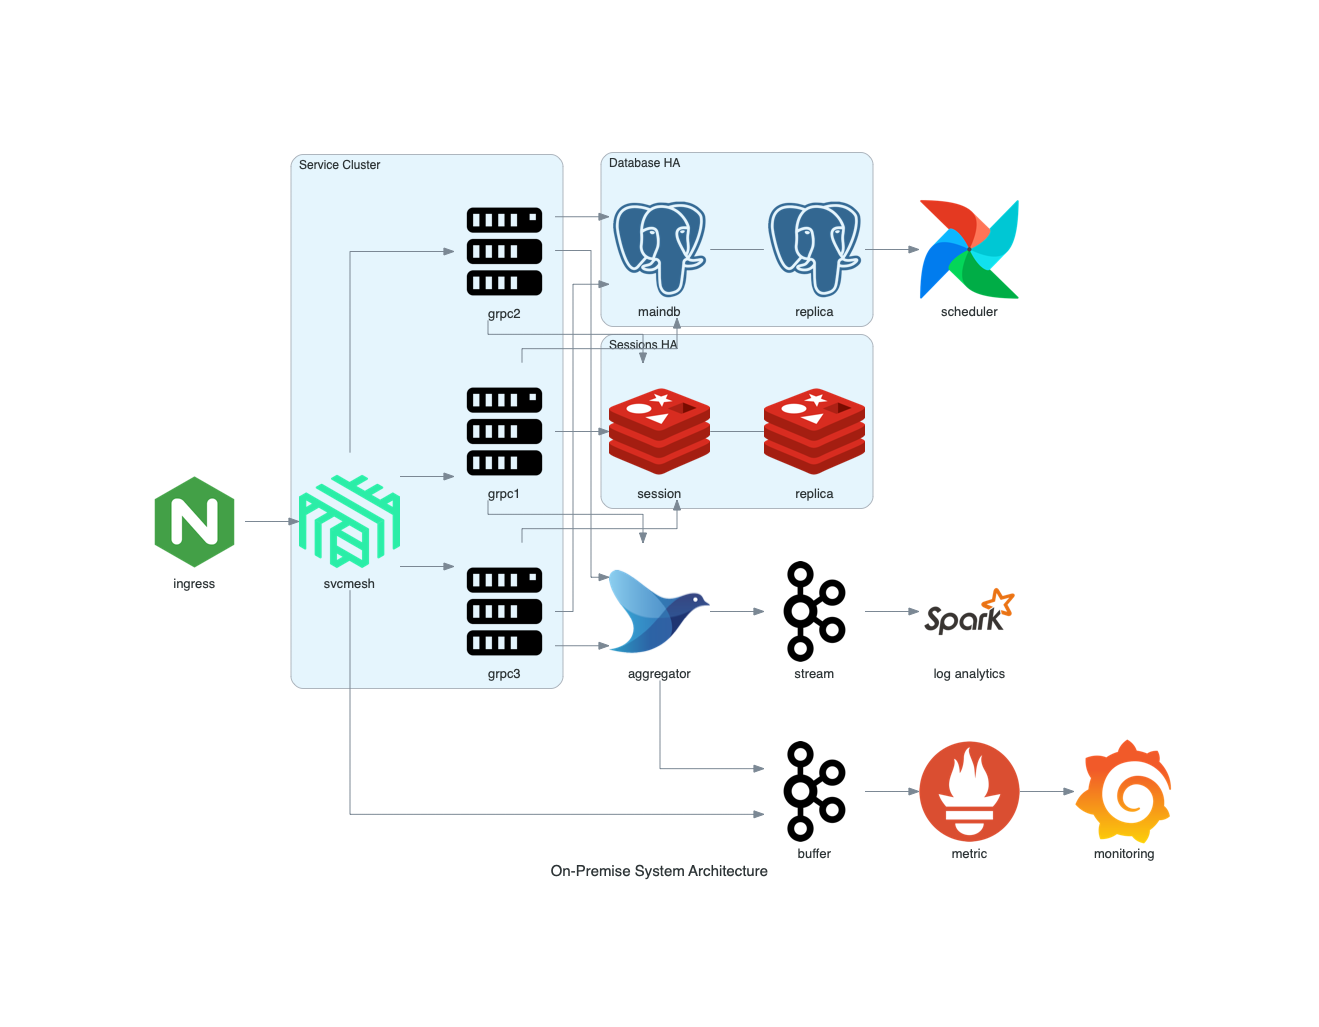
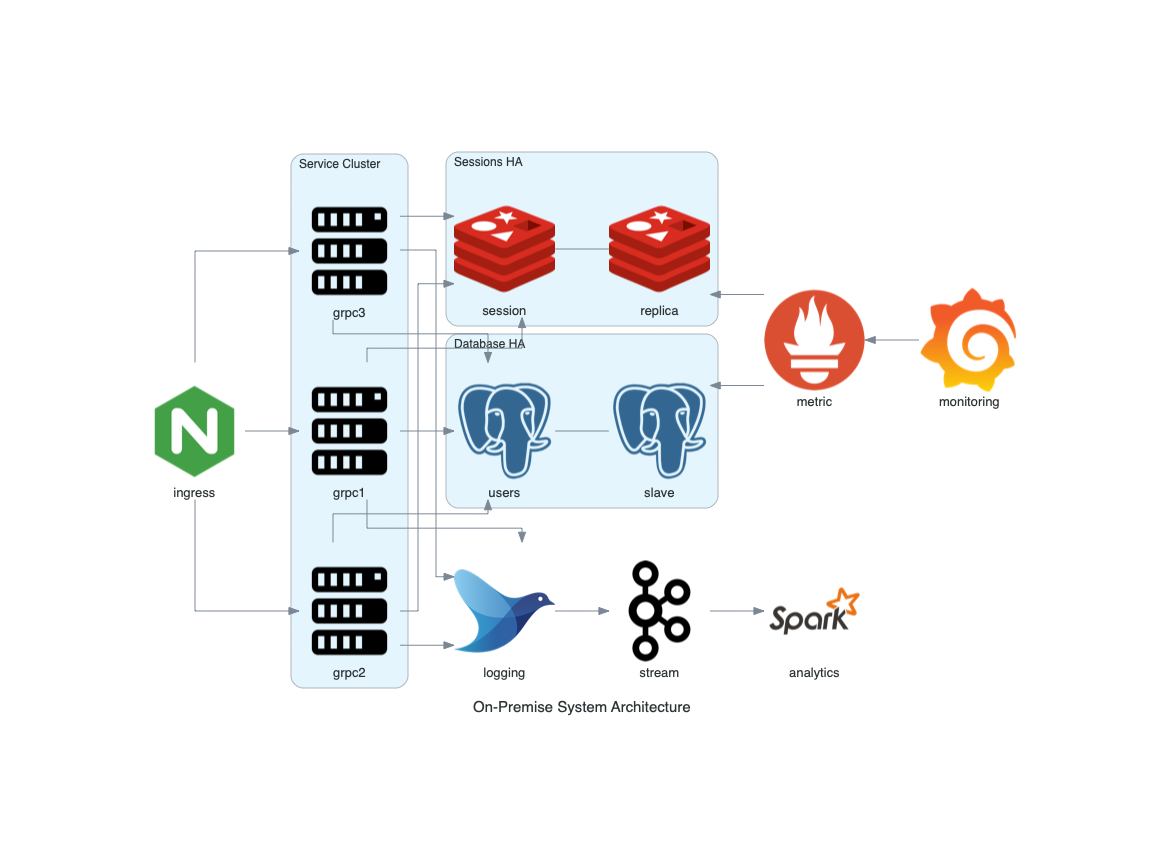
Deploy website
Deploy website version based on f23d9879ca727b5603332e0376e48bddc5ea1545

Changed region(s): [[0.0928, 0.1205, 0.8969, 0.8737], [0.8041, 0.7231, 0.8969, 0.8436]]

diff --git a/docs/getting-started/examples.html b/docs/getting-started/examples.html
@@ -239,42 +239,35 @@ urlretrieve(rabbitmq_url, rabbitmq_icon)
 <span class="hljs-keyword">from</span> diagrams.onprem.inmemory <span class="hljs-keyword">import</span> Redis
 <span class="hljs-keyword">from</span> diagrams.onprem.logging <span class="hljs-keyword">import</span> Fluentd
 <span class="hljs-keyword">from</span> diagrams.onprem.monitoring <span class="hljs-keyword">import</span> Grafana, Prometheus
-<span class="hljs-keyword">from</span> diagrams.onprem.network <span class="hljs-keyword">import</span> Linkerd, Nginx
+<span class="hljs-keyword">from</span> diagrams.onprem.network <span class="hljs-keyword">import</span> Nginx
 <span class="hljs-keyword">from</span> diagrams.onprem.queue <span class="hljs-keyword">import</span> Kafka
-<span class="hljs-keyword">from</span> diagrams.onprem.workflow <span class="hljs-keyword">import</span> Airflow
 
 <span class="hljs-keyword">with</span> Diagram(<span class="hljs-string">"On-Premise System Architecture"</span>, show=<span class="hljs-literal">False</span>):
     ingress = Nginx(<span class="hljs-string">"ingress"</span>)
 
+    metrics = Prometheus(<span class="hljs-string">"metric"</span>)
+    metrics &lt;&lt; Grafana(<span class="hljs-string">"monitoring"</span>)
+
     <span class="hljs-keyword">with</span> Cluster(<span class="hljs-string">"Service Cluster"</span>):
-        svcmesh = Linkerd(<span class="hljs-string">"svcmesh"</span>)
-        grpcsvc = [Server(<span class="hljs-string">"grpc1"</span>), Server(<span class="hljs-string">"grpc2"</span>), Server(<span class="hljs-string">"grpc3"</span>)]
-        svcmesh &gt;&gt; grpcsvc
-
-    <span class="hljs-keyword">with</span> Cluster(<span class="hljs-string">"Database HA"</span>):
-        maindb_master = PostgreSQL(<span class="hljs-string">"maindb"</span>)
-        maindb_replica = PostgreSQL(<span class="hljs-string">"replica"</span>)
-        maindb_master - maindb_replica
-        grpcsvc &gt;&gt; maindb_master
-
-    maindb_replica &gt;&gt; Airflow(<span class="hljs-string">"scheduler"</span>)
+        grpcsvc = [
+            Server(<span class="hljs-string">"grpc1"</span>),
+            Server(<span class="hljs-string">"grpc2"</span>),
+            Server(<span class="hljs-string">"grpc3"</span>)]
 
     <span class="hljs-keyword">with</span> Cluster(<span class="hljs-string">"Sessions HA"</span>):
-        session_master = Redis(<span class="hljs-string">"session"</span>)
-        session_master - Redis(<span class="hljs-string">"replica"</span>)
-        grpcsvc &gt;&gt; session_master
+        master = Redis(<span class="hljs-string">"session"</span>)
+        master - Redis(<span class="hljs-string">"replica"</span>) &lt;&lt; metrics
+        grpcsvc &gt;&gt; master
 
-    logaggr = Fluentd(<span class="hljs-string">"aggregator"</span>)
-    logaggr &gt;&gt; Kafka(<span class="hljs-string">"stream"</span>) &gt;&gt; Spark(<span class="hljs-string">"log analytics"</span>)
-    grpcsvc &gt;&gt; logaggr
+    <span class="hljs-keyword">with</span> Cluster(<span class="hljs-string">"Database HA"</span>):
+        master = PostgreSQL(<span class="hljs-string">"users"</span>)
+        master - PostgreSQL(<span class="hljs-string">"slave"</span>) &lt;&lt; metrics
+        grpcsvc &gt;&gt; master
 
-    metricq = Kafka(<span class="hljs-string">"buffer"</span>)
-    metricq &gt;&gt; Prometheus(<span class="hljs-string">"metric"</span>) &gt;&gt; Grafana(<span class="hljs-string">"monitoring"</span>)
+    aggregator = Fluentd(<span class="hljs-string">"logging"</span>)
+    aggregator &gt;&gt; Kafka(<span class="hljs-string">"stream"</span>) &gt;&gt; Spark(<span class="hljs-string">"analytics"</span>)
 
-    logaggr &gt;&gt; metricq
-    svcmesh &gt;&gt; metricq
-
-    ingress &gt;&gt; svcmesh
+    ingress &gt;&gt; grpcsvc &gt;&gt; aggregator
 </code></pre>
 <p><img src="/img/on-premise_system_architecture.png" alt="on-premise system architecture diagram"></p>
 </span></div></article></div><div class="docLastUpdate"><em>Last updated on 2020-2-23</em></div><div class="docs-prevnext"><a class="docs-prev button" href="/docs/getting-started/installation"><span class="arrow-prev">← </span><span>Installation</span></a><a class="docs-next button" href="/docs/guides/diagram"><span>Diagrams</span><span class="arrow-next"> →</span></a></div></div></div><nav class="onPageNav"><ul class="toc-headings"><li><a href="#grouped-workers">Grouped Workers</a></li><li><a href="#clustered-web-services">Clustered Web Services</a></li><li><a href="#event-processing">Event Processing</a></li><li><a href="#message-collecting-system">Message Collecting System</a></li><li><a href="#exposed-pod-with-3-replicas-on-k8s">Exposed Pod with 3 Replicas on k8s</a></li><li><a href="#stateful-architecture-on-k8s">Stateful Architecture on k8s</a></li><li><a href="#rabbitmq-consumers-with-custom-nodes">RabbitMQ Consumers with custom nodes</a></li><li><a href="#on-premise-system-architecture">On-Premise System Architecture</a></li></ul></nav></div><footer class="nav-footer" id="footer"><section class="sitemap"><a href="/" class="nav-home"><img src="/img/diagrams.ico" alt="Diagrams" width="66" height="58"/></a><div><h5>Docs</h5><a href="/docs/getting-started/installation">Getting Started</a><a href="/docs/guides/diagram">Guides</a><a href="/docs/nodes/aws">Nodes</a></div><div><h5>More</h5><a href="https://github.com/mingrammer/diagrams">GitHub</a><a class="github-button" data-icon="octicon-star" data-count-href="/mingrammer/diagrams/stargazers" data-show-count="true" data-count-aria-label="# stargazers on GitHub" aria-label="Star this project on GitHub">Star</a></div></section><section class="copyright">Copyright © 2020 mingrammer</section></footer></div></body></html>

diff --git a/docs/getting-started/examples/index.html b/docs/getting-started/examples/index.html
@@ -239,42 +239,35 @@ urlretrieve(rabbitmq_url, rabbitmq_icon)
 <span class="hljs-keyword">from</span> diagrams.onprem.inmemory <span class="hljs-keyword">import</span> Redis
 <span class="hljs-keyword">from</span> diagrams.onprem.logging <span class="hljs-keyword">import</span> Fluentd
 <span class="hljs-keyword">from</span> diagrams.onprem.monitoring <span class="hljs-keyword">import</span> Grafana, Prometheus
-<span class="hljs-keyword">from</span> diagrams.onprem.network <span class="hljs-keyword">import</span> Linkerd, Nginx
+<span class="hljs-keyword">from</span> diagrams.onprem.network <span class="hljs-keyword">import</span> Nginx
 <span class="hljs-keyword">from</span> diagrams.onprem.queue <span class="hljs-keyword">import</span> Kafka
-<span class="hljs-keyword">from</span> diagrams.onprem.workflow <span class="hljs-keyword">import</span> Airflow
 
 <span class="hljs-keyword">with</span> Diagram(<span class="hljs-string">"On-Premise System Architecture"</span>, show=<span class="hljs-literal">False</span>):
     ingress = Nginx(<span class="hljs-string">"ingress"</span>)
 
+    metrics = Prometheus(<span class="hljs-string">"metric"</span>)
+    metrics &lt;&lt; Grafana(<span class="hljs-string">"monitoring"</span>)
+
     <span class="hljs-keyword">with</span> Cluster(<span class="hljs-string">"Service Cluster"</span>):
-        svcmesh = Linkerd(<span class="hljs-string">"svcmesh"</span>)
-        grpcsvc = [Server(<span class="hljs-string">"grpc1"</span>), Server(<span class="hljs-string">"grpc2"</span>), Server(<span class="hljs-string">"grpc3"</span>)]
-        svcmesh &gt;&gt; grpcsvc
-
-    <span class="hljs-keyword">with</span> Cluster(<span class="hljs-string">"Database HA"</span>):
-        maindb_master = PostgreSQL(<span class="hljs-string">"maindb"</span>)
-        maindb_replica = PostgreSQL(<span class="hljs-string">"replica"</span>)
-        maindb_master - maindb_replica
-        grpcsvc &gt;&gt; maindb_master
-
-    maindb_replica &gt;&gt; Airflow(<span class="hljs-string">"scheduler"</span>)
+        grpcsvc = [
+            Server(<span class="hljs-string">"grpc1"</span>),
+            Server(<span class="hljs-string">"grpc2"</span>),
+            Server(<span class="hljs-string">"grpc3"</span>)]
 
     <span class="hljs-keyword">with</span> Cluster(<span class="hljs-string">"Sessions HA"</span>):
-        session_master = Redis(<span class="hljs-string">"session"</span>)
-        session_master - Redis(<span class="hljs-string">"replica"</span>)
-        grpcsvc &gt;&gt; session_master
+        master = Redis(<span class="hljs-string">"session"</span>)
+        master - Redis(<span class="hljs-string">"replica"</span>) &lt;&lt; metrics
+        grpcsvc &gt;&gt; master
 
-    logaggr = Fluentd(<span class="hljs-string">"aggregator"</span>)
-    logaggr &gt;&gt; Kafka(<span class="hljs-string">"stream"</span>) &gt;&gt; Spark(<span class="hljs-string">"log analytics"</span>)
-    grpcsvc &gt;&gt; logaggr
+    <span class="hljs-keyword">with</span> Cluster(<span class="hljs-string">"Database HA"</span>):
+        master = PostgreSQL(<span class="hljs-string">"users"</span>)
+        master - PostgreSQL(<span class="hljs-string">"slave"</span>) &lt;&lt; metrics
+        grpcsvc &gt;&gt; master
 
-    metricq = Kafka(<span class="hljs-string">"buffer"</span>)
-    metricq &gt;&gt; Prometheus(<span class="hljs-string">"metric"</span>) &gt;&gt; Grafana(<span class="hljs-string">"monitoring"</span>)
+    aggregator = Fluentd(<span class="hljs-string">"logging"</span>)
+    aggregator &gt;&gt; Kafka(<span class="hljs-string">"stream"</span>) &gt;&gt; Spark(<span class="hljs-string">"analytics"</span>)
 
-    logaggr &gt;&gt; metricq
-    svcmesh &gt;&gt; metricq
-
-    ingress &gt;&gt; svcmesh
+    ingress &gt;&gt; grpcsvc &gt;&gt; aggregator
 </code></pre>
 <p><img src="/img/on-premise_system_architecture.png" alt="on-premise system architecture diagram"></p>
 </span></div></article></div><div class="docLastUpdate"><em>Last updated on 2020-2-23</em></div><div class="docs-prevnext"><a class="docs-prev button" href="/docs/getting-started/installation"><span class="arrow-prev">← </span><span>Installation</span></a><a class="docs-next button" href="/docs/guides/diagram"><span>Diagrams</span><span class="arrow-next"> →</span></a></div></div></div><nav class="onPageNav"><ul class="toc-headings"><li><a href="#grouped-workers">Grouped Workers</a></li><li><a href="#clustered-web-services">Clustered Web Services</a></li><li><a href="#event-processing">Event Processing</a></li><li><a href="#message-collecting-system">Message Collecting System</a></li><li><a href="#exposed-pod-with-3-replicas-on-k8s">Exposed Pod with 3 Replicas on k8s</a></li><li><a href="#stateful-architecture-on-k8s">Stateful Architecture on k8s</a></li><li><a href="#rabbitmq-consumers-with-custom-nodes">RabbitMQ Consumers with custom nodes</a></li><li><a href="#on-premise-system-architecture">On-Premise System Architecture</a></li></ul></nav></div><footer class="nav-footer" id="footer"><section class="sitemap"><a href="/" class="nav-home"><img src="/img/diagrams.ico" alt="Diagrams" width="66" height="58"/></a><div><h5>Docs</h5><a href="/docs/getting-started/installation">Getting Started</a><a href="/docs/guides/diagram">Guides</a><a href="/docs/nodes/aws">Nodes</a></div><div><h5>More</h5><a href="https://github.com/mingrammer/diagrams">GitHub</a><a class="github-button" data-icon="octicon-star" data-count-href="/mingrammer/diagrams/stargazers" data-show-count="true" data-count-aria-label="# stargazers on GitHub" aria-label="Star this project on GitHub">Star</a></div></section><section class="copyright">Copyright © 2020 mingrammer</section></footer></div></body></html>
